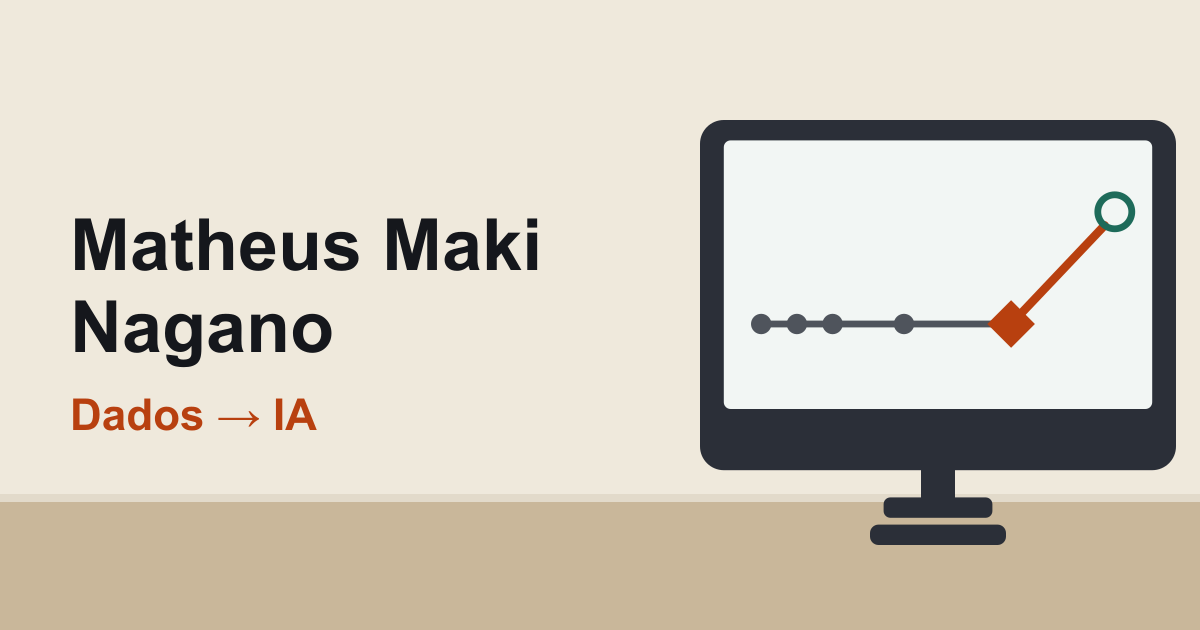
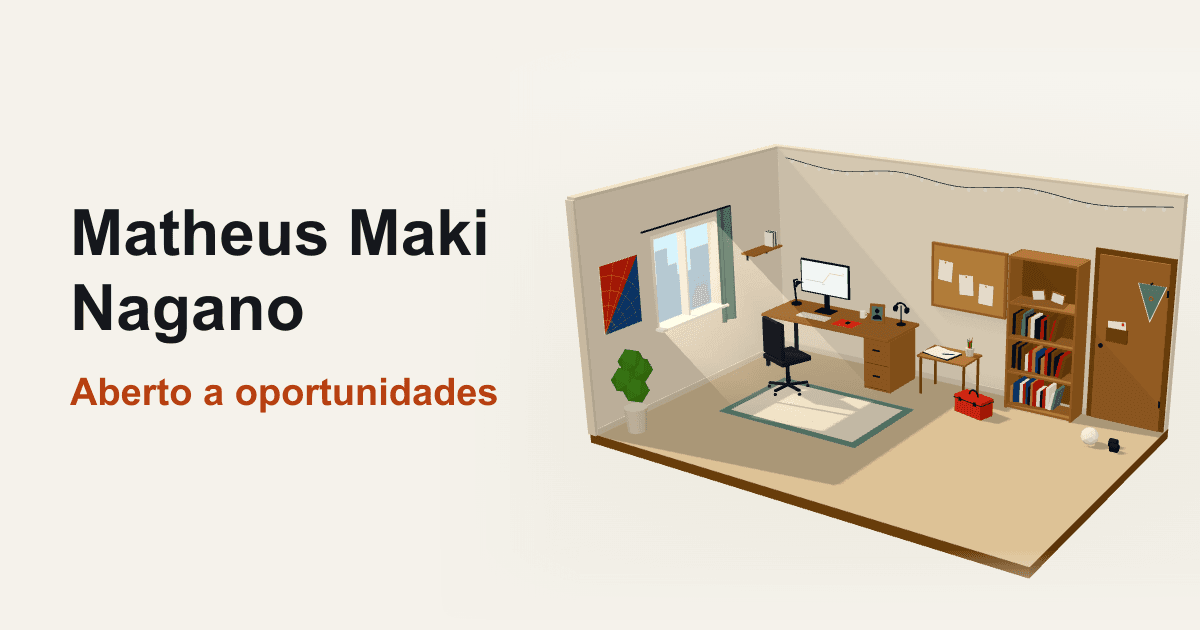
Pendências: og.png do quarto 3D, Aberto a oportunidades, tour, monitor no celular, fallback sem salto e fontes

diff --git a/src/styles/layout.css b/src/styles/layout.css
@@ -1012,6 +1012,32 @@ main:focus {
       html[data-modo='quarto'] .so-icones {
         grid-template-columns: repeat(2, minmax(0, 1fr));
       }
+
+      /* 12 px: o nome do site e a seta cabem na mesma linha em 390 px */
+      html[data-modo='quarto'] .so-icone {
+        font-size: 12px;
+      }
+    }
+
+    /* Telas baixas: grade compacta para os 7 ícones (inclusive o do site) caberem sem rolar */
+    @media (max-width: 420px) and (max-height: 800px) {
+      html[data-modo='quarto'] .so-area {
+        padding: var(--space-3);
+      }
+
+      html[data-modo='quarto'] .so-icones {
+        gap: var(--space-1) var(--space-2);
+      }
+
+      html[data-modo='quarto'] .so-icone {
+        min-height: 0;
+        padding: var(--space-2) var(--space-1);
+      }
+
+      html[data-modo='quarto'] .so-ico {
+        width: 36px;
+        height: 30px;
+      }
     }
 
     html[data-modo='quarto'] .so-arquivo[data-aberto] {

diff --git a/src/scripts/modo.ts b/src/scripts/modo.ts
@@ -37,10 +37,19 @@ function sairParaRecrutador() {
 /** Fallback automático (sem WebGL2, quadros lentos demais): modo recrutador sem gravar a escolha e com o aviso lido. */
 export function cairNoRecrutador(textoAviso: string) {
   if (!modoQuarto()) return;
+  // A troca de layout inteira acontece com o corpo oculto por 2 quadros: assim ela não conta como salto de layout (CLS).
+  const foco = document.activeElement as HTMLElement | null;
+  html.dataset.queda = '';
   sairParaRecrutador();
   ajustarLink();
   anunciar(textoAviso);
   hist.dono(hist.idDoHash())?.el.scrollIntoView({ block: 'start' });
+  requestAnimationFrame(() =>
+    requestAnimationFrame(() => {
+      delete html.dataset.queda;
+      if (foco && foco !== document.body && foco.isConnected) foco.focus({ preventScroll: true });
+    }),
+  );
 }
 
 /** Alterna entre os dois modos (botão do HUD e botão "Modo recrutador" do cartão de erro). */

diff --git a/src/cena/index.ts b/src/cena/index.ts
@@ -95,10 +95,15 @@ export async function iniciar(o: OpcoesCena): Promise<Cena> {
   /* ---------- Renderizadores ---------- */
   // Sem GPU de verdade (renderizador por software), o contexto é recusado: iniciar() lança Error('sem-webgl') e carga.ts cai no modo recrutador.
   let renderer: WebGLRenderer;
+  // O three loga console.error ao recusar o contexto; a queda para o modo recrutador é esperada, então o log é silenciado aqui.
+  const erro = console.error;
+  console.error = () => {};
   try {
     renderer = new WebGLRenderer({ canvas, antialias: !leve, alpha: true, powerPreference: leve ? 'low-power' : 'high-performance', failIfMajorPerformanceCaveat: true });
   } catch {
     throw new Error('sem-webgl');
+  } finally {
+    console.error = erro;
   }
   renderer.setClearColor(0x000000, 0);
   renderer.outputColorSpace = SRGBColorSpace;

diff --git a/src/schemas/conteudo.ts b/src/schemas/conteudo.ts
@@ -146,7 +146,7 @@ export const textosSchema = z.strictObject({
     pular: texto,
     pularRotulo: texto,
   }),
-  /** "Dados → IA" pintado na parede (12.13.3). */
+  /** "Aberto a oportunidades" (identidade.disponibilidade) pintado na parede (12.13.3). */
   parede: z.strictObject({ direcao: texto }),
   /** Post-it "Fale comigo!" (CTA do LinkedIn): título manuscrito + texto literal do CTA. */
   postit: z.strictObject({ contato: z.strictObject({ titulo: texto, cta: texto }) }),

diff --git a/src/styles/quarto.css b/src/styles/quarto.css
@@ -1028,6 +1028,16 @@
     display: flex;
   }
 
+  /* Passo 9 (monitor aberto): os botões sobem para o centro do topo, para não cobrir o status "Em desenvolvimento" da barra do SO */
+  .palco[data-passo='9'] .tour-acoes {
+    top: 16px;
+    right: auto;
+    bottom: auto;
+    left: 50%;
+    translate: -50% 0;
+    flex-direction: row;
+  }
+
   .traco {
     display: grid;
     place-items: center;

diff --git a/src/styles/global.css b/src/styles/global.css
@@ -84,6 +84,11 @@ a:hover {
   border: 0;
 }
 
+/* Queda automática para o modo recrutador (modo.ts): oculta o corpo por 2 quadros para a troca de layout não pesar no CLS */
+html[data-queda] body {
+  visibility: hidden;
+}
+
 /*
  * MODOS. O modo recrutador é o HTML/CSS base (sem JS, impressão, buscadores).
  * Tudo que é do quarto fica sob html[data-modo='quarto'] e só em tela (@media screen),

diff --git a/src/scripts/lidos.ts b/src/scripts/lidos.ts
@@ -26,7 +26,7 @@ export function render() {
     const estado = l.querySelector<HTMLElement>('.estado');
     if (estado) {
       const texto = lido ? estado.dataset.lido : sugerido ? estado.dataset.proximo : '';
-      estado.textContent = texto ? `, ${texto}` : '';
+      estado.textContent = texto ? `(${texto})` : '';
     }
   }
   ouvintes.forEach((fn) => fn());
